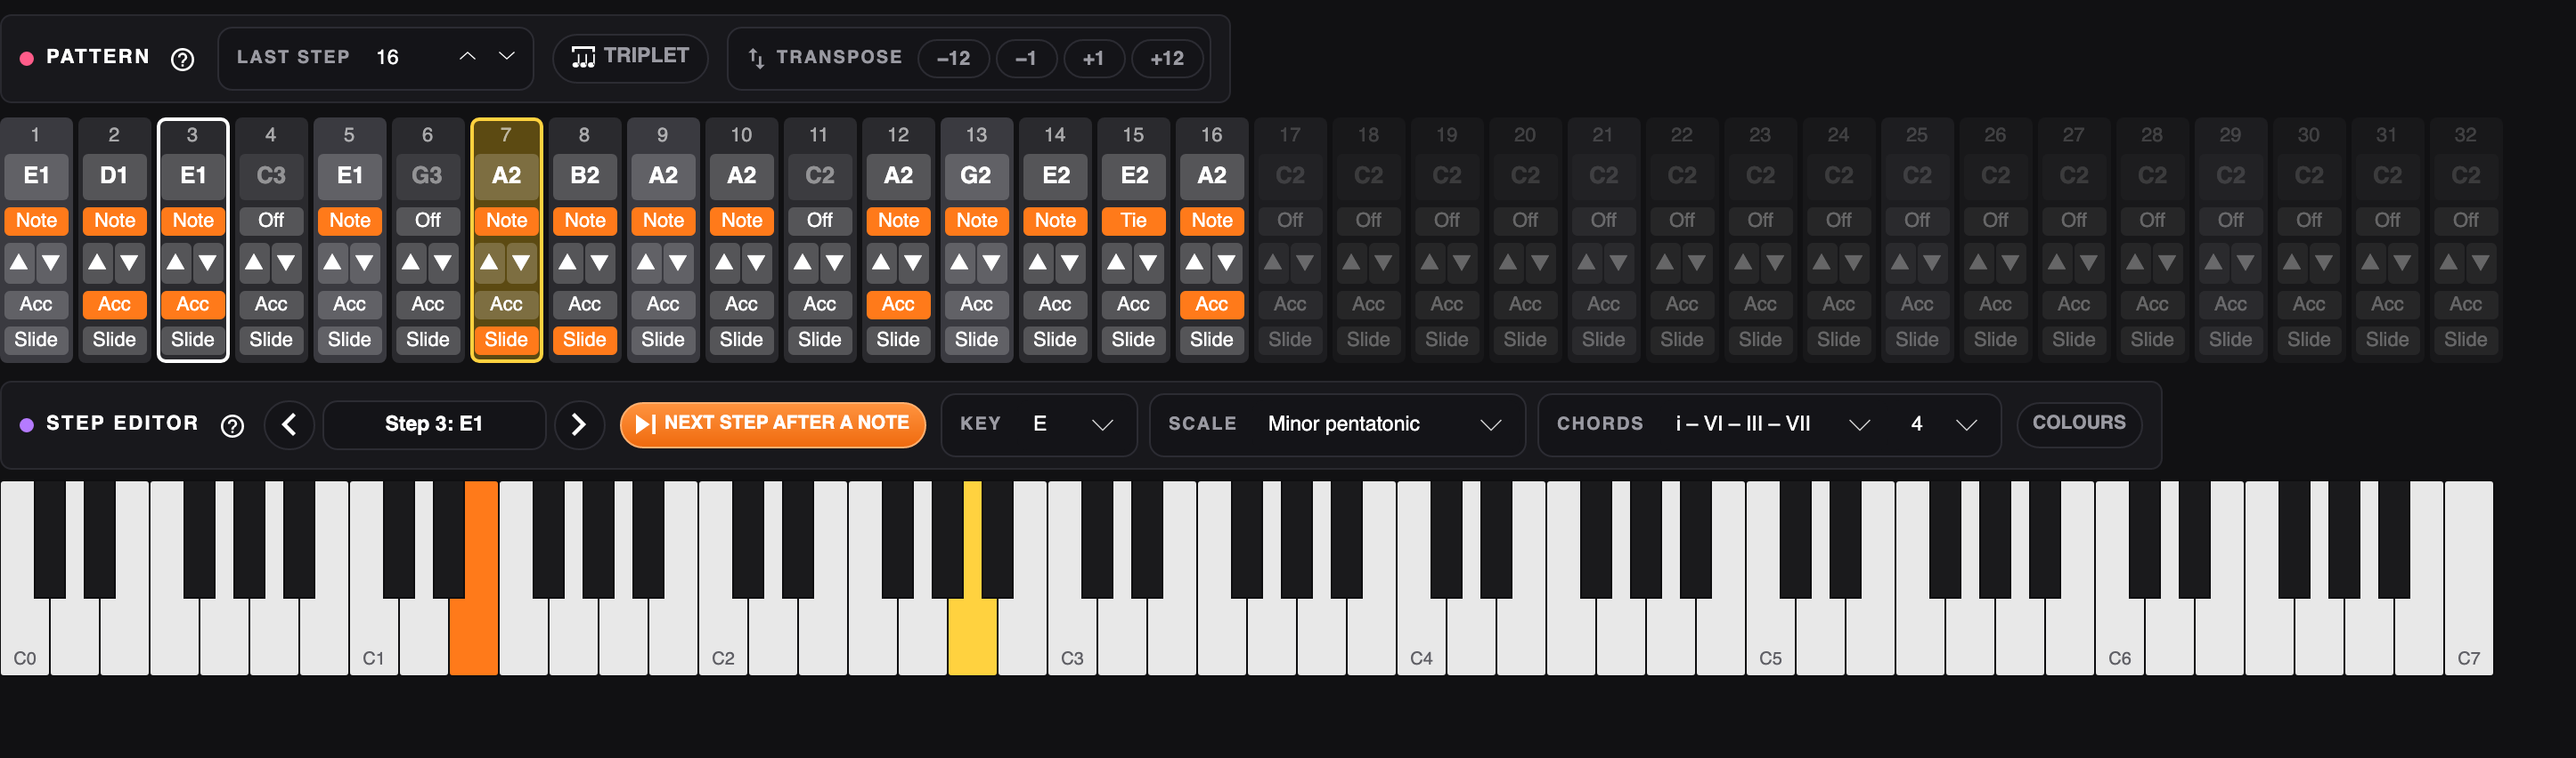
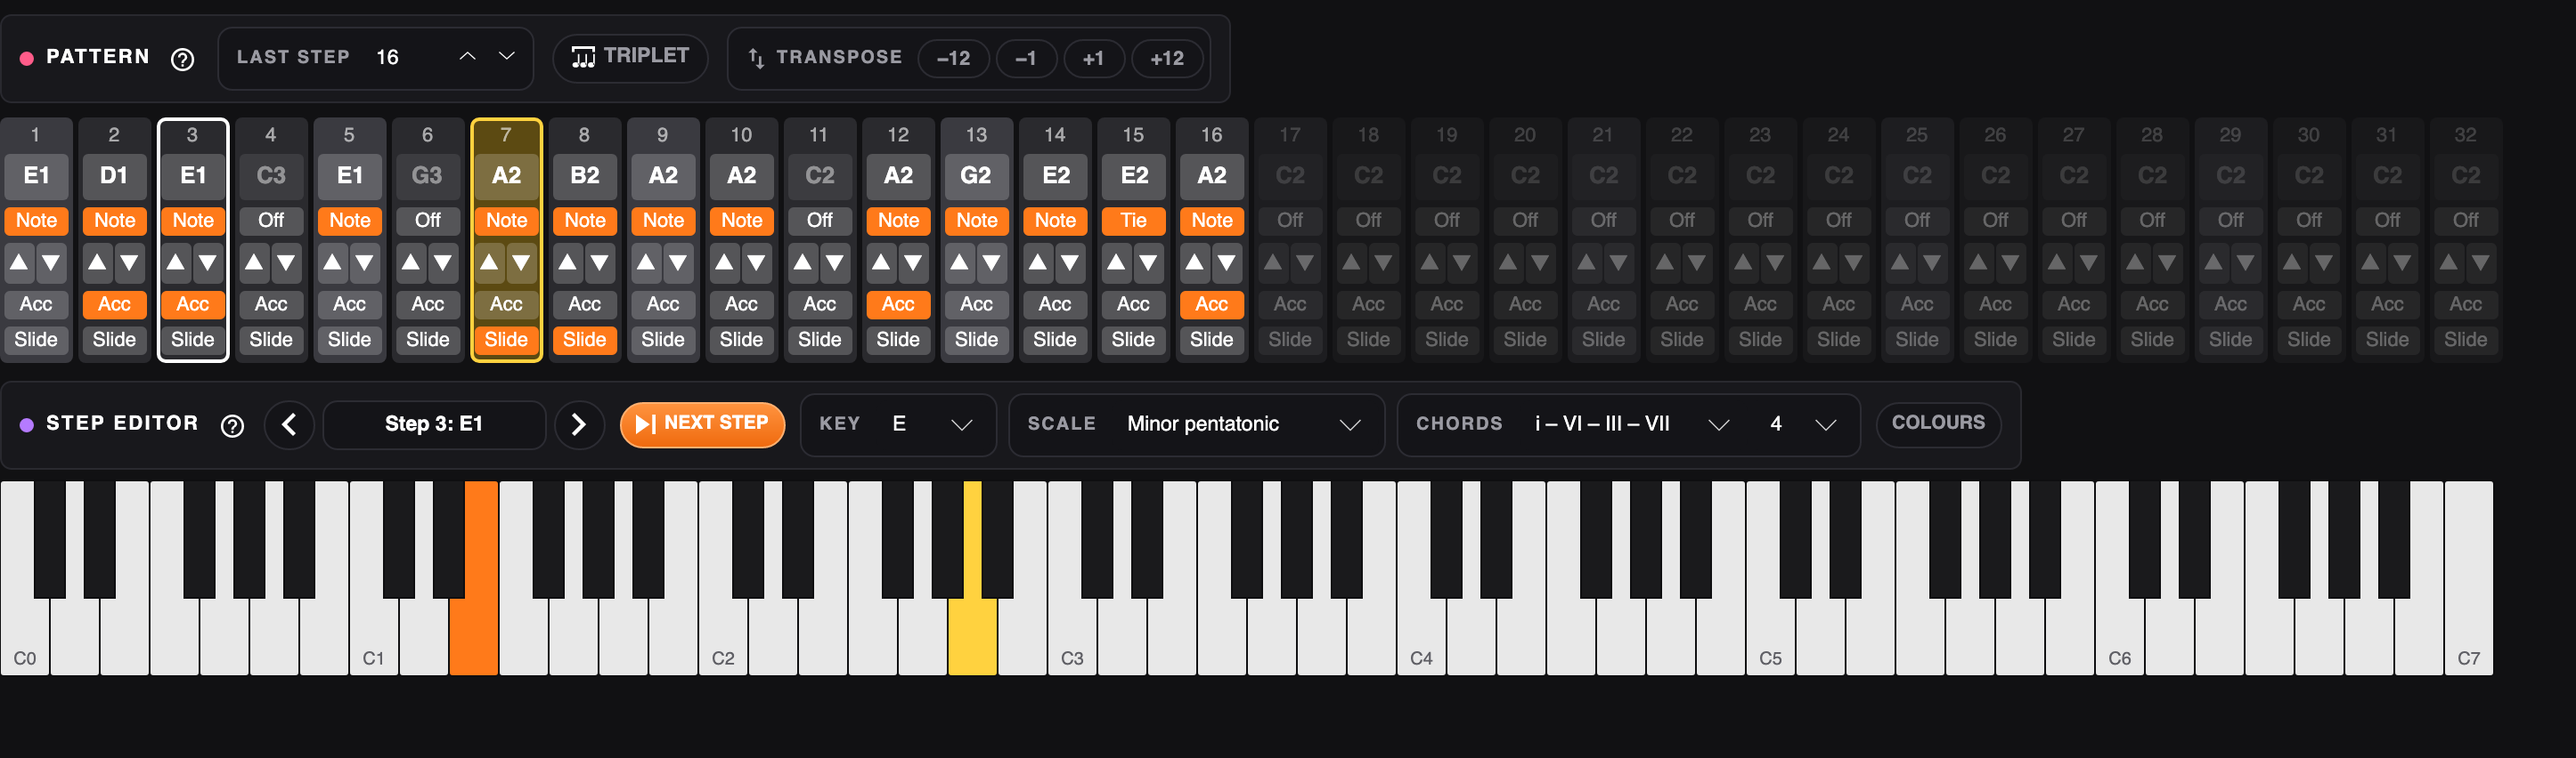
Step editor: shorten the chip to NEXT STEP so the row fits on every OS
On Ubuntu CI the fonts are wider and the row came to 1392 px against
the 1401 px keyboard. The chip now reads "NEXT STEP" (the full "next
step after a note" is in its tooltip), which takes the row down to
1270 px in the tests here, leaving room on every platform. README and
help use the new label.

Changed region(s): [[0.2801, 0.5188, 0.8402, 0.6103]]

diff --git a/docs/help/bass-editing.md b/docs/help/bass-editing.md
@@ -14,7 +14,7 @@ Each column is one step: its note, its state, semitone up / down, **Accent** and
 - **KEY**, **SCALE** and **CHORDS** on the step editor are the pattern's key. Opening a pattern sets the key and scale from the notes already in the line. Generate and Vary use that same key.
 - **COLOURS** starts off, so the keyboard is plain. Turn it on and bright keys are the scale. Pink keys are the selected step's chord: its root, third and fifth, named under **TONES**. Grey keys are outside the scale, and you can still play them.
 - The pink keys follow the selected step. With a progression, they move on when the selection crosses into the next chord.
-- **Next step after a note** (lit orange when on): the selection then moves on, so you can play a line in key by key.
+- **NEXT STEP** (next step after a note; lit orange when on): the selection then moves on, so you can play a line in key by key.
 - The chevrons in the **STEP EDITOR** panel move the selection to the previous or next step.
 
 ## Pattern panel

diff --git a/README.md b/README.md
@@ -338,7 +338,7 @@ Each column is one step: its note, its state, semitone up/down, and Accent and S
   under **Tones**), and grey keys are outside the scale. A grey key still plays. Generate and Vary use this same key.
 - Click a key on the **keyboard** to give the selected step that note. The step is turned on, you hear the note
   on the T-8, and the selection moves to the next step, so you can play a line in key by key. Turn off
-  **Next step after a note** (in the **Step editor** panel above the keyboard) to stay on the same step. The
+  **Next step** (next step after a note, in the **Step editor** panel above the keyboard) to stay on the same step. The
   chevrons there move the selection. The pink keys move with the selection when a progression changes chord.
 - The state button cycles **Off → Note → Tie**. A tie holds the previous note through the step.
 - The **Pattern** panel above the steps holds **Last step** (1–32), **Triplet** (lit orange when on) and

diff --git a/docs/help/tips/bass-step-editor.md b/docs/help/tips/bass-step-editor.md
@@ -1,3 +1,3 @@
 # Step editor
 <!-- topic: bass-editing -->
-Click a step's note or number to select it, then click a key on the keyboard to give it that note. **COLOURS** starts off. Turn it on to paint the scale in bright keys and that step's chord in pink. Opening a pattern sets **KEY** and **SCALE** from its notes. Generate and Vary use that same key. With **Next step after a note** on, the selection moves on. The chevrons move the selection.
+Click a step's note or number to select it, then click a key on the keyboard to give it that note. **COLOURS** starts off. Turn it on to paint the scale in bright keys and that step's chord in pink. Opening a pattern sets **KEY** and **SCALE** from its notes. Generate and Vary use that same key. With **NEXT STEP** on, the selection moves on after a note. The chevrons move the selection.
